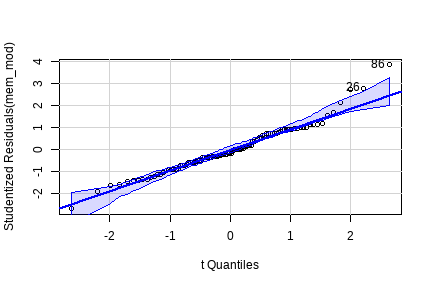
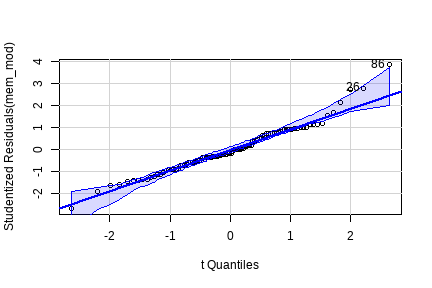
opened lecture 6

diff --git a/06_anova2.html b/06_anova2.html
@@ -81,7 +81,7 @@ class: middle, center, inverse
 Факторы:
 
 - `Age` - Возраст:
-    - `Younger` - 50 молодых;
+    - `Younger` - 50 молодых (студенты 18--30 лет);
     - `Older` - 50 пожилых (55--65 лет).
 - `Process` - тип активности:
     - `Counting` - посчитать число букв;
@@ -286,7 +286,7 @@ class: middle, center, inverse
 
 На каких рисунках есть взаимодействие факторов?
 
--- 
+--
 
 - b, c - нет взаимодействия (эффект фактора B одинаковый для групп по фактору A, линии для разных групп по фактору B на графиках расположены параллельно)
 - a, d - есть взаимодействие (эффект фактора B разный для групп по фактору A, на графиках линии для разных групп по фактору B расположены под наклоном).
@@ -472,101 +472,6 @@ contrasts = list(Age = contr.sum, Process = contr.sum))
 
 ---
 
-class: middle, center, inverse
-
-# Несбалансированные данные
-
----
-
-## Сбалансированность данных
-
-| A / B| B1 | B2 | B3 |
-|-----| -----| -----| -----|
-|A1 | `\(n_{11}\)`| `\(n_{12}\)` |  `\(n_{13}\)`|
-|A2 | `\(n_{21}\)`| `\(n_{22}\)` |  `\(n_{23}\)`|
-
-### Сбалансированные данные
-
-Одинаковое число наблюдений во всех группах `\(n_{11} = n_{12} = \cdots = n_{ij}\)`.
-
-### Несбалансированные данные
-
-Неодинаковое число наблюдений в группах.
-
----
-
-## Суммы квадратов в многофакторном дисперсионном анализе со взаимодействием
-
-__Если данные сбалансированы, то ...__
-
-- взаимодействие и эффекты факторов независимы,
-- `\(SS_t = SS_a + SS_b + SS_{ab} + SS_e\)`,  
-поэтому суммы квадратов (и тесты) можно посчитать в одном анализе,
-- результат не зависит от порядка тестирования значимости факторов.
-
---
-
-__Если данные несбалансированы, то ...__
-
-- взаимодействие и эффекты факторов уже не являются полностью независимыми,
-- `\(SS_t \ne SS_a + SS_b + SS_{ab} + SS_e\)`,  
-и суммы квадратов не посчитать за один приём,
-- результат анализа будет зависеть от порядка рассмотрения факторов (от "типа сумм квадратов").
-
-### "Тип сумм квадратов"
-
-— это один из общепринятых алгоритмов тестирования значимости факторов в дисперсионном анализе.
-
----
-
-## Порядок тестирования значимости предикторов &lt;br/&gt; в дисперсионном анализе
-
-.small[
-
-"Типы сумм квадратов" | I тип | II тип | III тип
----- | ---- | ---- | ---- 
-Название | Последовательный | Без учета взаимодействий высоких порядков | Иерархический
-Порядок расчета SS | SS(A) &lt;br/&gt; SS(B&amp;#124;A)  &lt;br/&gt; SS(AB&amp;#124;B, A) | SS(A&amp;#124;B) &lt;br/&gt; SS(B&amp;#124;A) &lt;br/&gt; SS(AB&amp;#124;B, A) | SS(A&amp;#124;B, AB) &lt;br/&gt; SS(B&amp;#124;A, AB) &lt;br/&gt; SS(AB&amp;#124;B, A)
-Величина эффекта зависит от выборки в группе | Да | Да | Нет
-Результат зависит от порядка включения факторов в модель | Да | Нет | Нет
-Параметризация | Любая | Любая | Только параметризация эффектов
-Команда R | aov(), anova() | Anova() (пакет car) |  Anova() (пакет car)
-
-__Осторожно!__ Тестируя предикторы в разном порядке, вы тестируете разные гипотезы!
-
-]
-
----
-
-## Суммы квадратов III типа
-
-__Если данные сильно не сбалансированы и анализ учитывает взаимодействие факторов__, то чтобы найти суммы квадратов придется подобрать несколько моделей.
-
-
-- `\(Y = B + AB + \mathbf{A } \longrightarrow SS_a\)`
-- `\(Y = A + AB + \mathbf{B} \longrightarrow SS_b\)`
-- `\(Y = A + B + \mathbf{AB}  \longrightarrow SS_{ab}\)`
-
-Суммы квадратов, рассчитанные __для последнего фактора в каждой модели__, будут использоваться в тестах.
-
-Некоторые авторы рекомендуют использовать именно III тип сумм квадратов для несбалансированных данных (Maxwell &amp; Delaney 1990, Milliken, Johnson 1984, Searle 1993, Yandell 1997, Glantz, Slinker 2000).
-
----
-
-## Другие проблемы из-за несбалансированности данных
-
-- Оценки средних в разных группах с разным уровнем точности (Underwood 1997)
-- ANOVA менее устойчив к отклонениям от условий применимости (особенно от гомогенности дисперсий) при разных размерах групп (Quinn Keough 2002, section 8.3)
-- Проблемы с расчетом мощности. Если `\(\sigma _{\epsilon}^2 &gt; 0\)` и размеры выборок разные, то `\(MS _{x} \over MS _{e}\)` не следует F-распределению (Searle et al. 1992).
-
---
-
-- Старайтесь _планировать_ группы равной численности!
-- Но если не получилось - не страшно:
-    - Для фикс. эффектов неравные размеры - проблема при нарушении условий применимости только, если значения доверительной вероятности _p_ близки к выбранному критическому уровню значимости `\(\alpha\)`
-
----
-
 ## Задание 3
 
 Проверим выполнение условий применимости дисперсионного анализа
@@ -679,6 +584,101 @@ qqPlot(mem_mod)
 
 ---
 
+class: middle, center, inverse
+
+# Несбалансированные данные
+
+---
+
+## Сбалансированность данных
+
+| A / B| B1 | B2 | B3 |
+|-----| -----| -----| -----|
+|A1 | `\(n_{11}\)`| `\(n_{12}\)` |  `\(n_{13}\)`|
+|A2 | `\(n_{21}\)`| `\(n_{22}\)` |  `\(n_{23}\)`|
+
+### Сбалансированные данные
+
+Одинаковое число наблюдений во всех группах `\(n_{11} = n_{12} = \cdots = n_{ij}\)`.
+
+### Несбалансированные данные
+
+Неодинаковое число наблюдений в группах.
+
+---
+
+## Суммы квадратов в многофакторном дисперсионном анализе со взаимодействием
+
+__Если данные сбалансированы, то ...__
+
+- взаимодействие и эффекты факторов независимы,
+- `\(SS_t = SS_a + SS_b + SS_{ab} + SS_e\)`,  
+поэтому суммы квадратов (и тесты) можно посчитать в одном анализе,
+- результат не зависит от порядка тестирования значимости факторов.
+
+--
+
+__Если данные несбалансированы, то ...__
+
+- взаимодействие и эффекты факторов уже не являются полностью независимыми,
+- `\(SS_t \ne SS_a + SS_b + SS_{ab} + SS_e\)`,  
+и суммы квадратов не посчитать за один приём,
+- результат анализа будет зависеть от порядка рассмотрения факторов (от "типа сумм квадратов").
+
+### "Тип сумм квадратов"
+
+— это один из общепринятых алгоритмов тестирования значимости факторов в дисперсионном анализе.
+
+---
+
+## Порядок тестирования значимости предикторов &lt;br/&gt; в дисперсионном анализе
+
+.small[
+
+"Типы сумм квадратов" | I тип | II тип | III тип
+---- | ---- | ---- | ---- 
+Название | Последовательный | Без учета взаимодействий высоких порядков | Иерархический
+Порядок расчета SS | SS(A) &lt;br/&gt; SS(B&amp;#124;A)  &lt;br/&gt; SS(AB&amp;#124;B, A) | SS(A&amp;#124;B) &lt;br/&gt; SS(B&amp;#124;A) &lt;br/&gt; SS(AB&amp;#124;B, A) | SS(A&amp;#124;B, AB) &lt;br/&gt; SS(B&amp;#124;A, AB) &lt;br/&gt; SS(AB&amp;#124;B, A)
+Величина эффекта зависит от выборки в группе | Да | Да | Нет
+Результат зависит от порядка включения факторов в модель | Да | Нет | Нет
+Параметризация | Любая | Любая | Только параметризация эффектов
+Команда R | aov(), anova() | Anova() (пакет car) |  Anova() (пакет car)
+
+__Осторожно!__ Тестируя предикторы в разном порядке, вы тестируете разные гипотезы!
+
+]
+
+---
+
+## Суммы квадратов III типа
+
+__Если данные сильно не сбалансированы и анализ учитывает взаимодействие факторов__, то чтобы найти суммы квадратов придется подобрать несколько моделей.
+
+
+- `\(Y = B + AB + \mathbf{A } \longrightarrow SS_a\)`
+- `\(Y = A + AB + \mathbf{B} \longrightarrow SS_b\)`
+- `\(Y = A + B + \mathbf{AB}  \longrightarrow SS_{ab}\)`
+
+Суммы квадратов, рассчитанные __для последнего фактора в каждой модели__, будут использоваться в тестах.
+
+Некоторые авторы рекомендуют использовать именно III тип сумм квадратов для несбалансированных данных (Maxwell &amp; Delaney 1990, Milliken, Johnson 1984, Searle 1993, Yandell 1997, Glantz, Slinker 2000).
+
+---
+
+## Другие проблемы из-за несбалансированности данных
+
+- Оценки средних в разных группах с разным уровнем точности (Underwood 1997)
+- ANOVA менее устойчив к отклонениям от условий применимости (особенно от гомогенности дисперсий) при разных размерах групп (Quinn Keough 2002, section 8.3)
+- Проблемы с расчетом мощности. Если `\(\sigma _{\epsilon}^2 &gt; 0\)` и размеры выборок разные, то `\(MS _{x} \over MS _{e}\)` не следует F-распределению (Searle et al. 1992).
+
+--
+
+- Старайтесь _планировать_ группы равной численности!
+- Но если не получилось - не страшно:
+    - Для фикс. эффектов неравные размеры - проблема при нарушении условий применимости только, если значения доверительной вероятности _p_ близки к выбранному критическому уровню значимости `\(\alpha\)`
+
+---
+
 ## Результаты дисперсионного анализа
 
 
@@ -775,51 +775,51 @@ Fit: lm(formula = Words ~ AgeProcess - 1, data = memory)
 
 Linear Hypotheses:
                                                      Estimate Std. Error t value Pr(&gt;|t|)
-Молодой.Число букв - Пожилой.Число букв == 0            -0.50       1.27   -0.39    1.000
-Пожилой.Рифмы - Пожилой.Число букв == 0                 -0.10       1.27   -0.08    1.000
-Молодой.Рифмы - Пожилой.Число букв == 0                  0.60       1.27    0.47    1.000
-Пожилой.Прилагательное - Пожилой.Число букв == 0         4.00       1.27    3.16    0.063
-Молодой.Прилагательное - Пожилой.Число букв == 0         7.80       1.27    6.16    &lt;0.01
-Пожилой.Образ - Пожилой.Число букв == 0                  6.40       1.27    5.05    &lt;0.01
-Молодой.Образ - Пожилой.Число букв == 0                 10.60       1.27    8.37    &lt;0.01
-Пожилой.Запоминание - Пожилой.Число букв == 0            5.00       1.27    3.95    &lt;0.01
-Молодой.Запоминание - Пожилой.Число букв == 0           12.30       1.27    9.71    &lt;0.01
-Пожилой.Рифмы - Молодой.Число букв == 0                  0.40       1.27    0.32    1.000
-Молодой.Рифмы - Молодой.Число букв == 0                  1.10       1.27    0.87    0.997
-Пожилой.Прилагательное - Молодой.Число букв == 0         4.50       1.27    3.55    0.021
-Молодой.Прилагательное - Молодой.Число букв == 0         8.30       1.27    6.55    &lt;0.01
-Пожилой.Образ - Молодой.Число букв == 0                  6.90       1.27    5.45    &lt;0.01
-Молодой.Образ - Молодой.Число букв == 0                 11.10       1.27    8.76    &lt;0.01
-Пожилой.Запоминание - Молодой.Число букв == 0            5.50       1.27    4.34    &lt;0.01
-Молодой.Запоминание - Молодой.Число букв == 0           12.80       1.27   10.10    &lt;0.01
-Молодой.Рифмы - Пожилой.Рифмы == 0                       0.70       1.27    0.55    1.000
-Пожилой.Прилагательное - Пожилой.Рифмы == 0              4.10       1.27    3.24    0.051
-Молодой.Прилагательное - Пожилой.Рифмы == 0              7.90       1.27    6.24    &lt;0.01
-Пожилой.Образ - Пожилой.Рифмы == 0                       6.50       1.27    5.13    &lt;0.01
-Молодой.Образ - Пожилой.Рифмы == 0                      10.70       1.27    8.45    &lt;0.01
-Пожилой.Запоминание - Пожилой.Рифмы == 0                 5.10       1.27    4.03    &lt;0.01
-Молодой.Запоминание - Пожилой.Рифмы == 0                12.40       1.27    9.79    &lt;0.01
-Пожилой.Прилагательное - Молодой.Рифмы == 0              3.40       1.27    2.68    0.197
-Молодой.Прилагательное - Молодой.Рифмы == 0              7.20       1.27    5.68    &lt;0.01
-Пожилой.Образ - Молодой.Рифмы == 0                       5.80       1.27    4.58    &lt;0.01
-Молодой.Образ - Молодой.Рифмы == 0                      10.00       1.27    7.89    &lt;0.01
-Пожилой.Запоминание - Молодой.Рифмы == 0                 4.40       1.27    3.47    0.026
-Молодой.Запоминание - Молодой.Рифмы == 0                11.70       1.27    9.23    &lt;0.01
-Молодой.Прилагательное - Пожилой.Прилагательное == 0     3.80       1.27    3.00    0.095
-Пожилой.Образ - Пожилой.Прилагательное == 0              2.40       1.27    1.89    0.673
-Молодой.Образ - Пожилой.Прилагательное == 0              6.60       1.27    5.21    &lt;0.01
-Пожилой.Запоминание - Пожилой.Прилагательное == 0        1.00       1.27    0.79    0.999
-Молодой.Запоминание - Пожилой.Прилагательное == 0        8.30       1.27    6.55    &lt;0.01
-Пожилой.Образ - Молодой.Прилагательное == 0             -1.40       1.27   -1.11    0.983
-Молодой.Образ - Молодой.Прилагательное == 0              2.80       1.27    2.21    0.457
-Пожилой.Запоминание - Молодой.Прилагательное == 0       -2.80       1.27   -2.21    0.458
-Молодой.Запоминание - Молодой.Прилагательное == 0        4.50       1.27    3.55    0.020
-Молодой.Образ - Пожилой.Образ == 0                       4.20       1.27    3.32    0.041
-Пожилой.Запоминание - Пожилой.Образ == 0                -1.40       1.27   -1.11    0.983
-Молодой.Запоминание - Пожилой.Образ == 0                 5.90       1.27    4.66    &lt;0.01
-Пожилой.Запоминание - Молодой.Образ == 0                -5.60       1.27   -4.42    &lt;0.01
-Молодой.Запоминание - Молодой.Образ == 0                 1.70       1.27    1.34    0.941
-Молодой.Запоминание - Пожилой.Запоминание == 0           7.30       1.27    5.76    &lt;0.01
+Молодой.Число букв - Пожилой.Число букв == 0            -0.50       1.27   -0.39   1.0000
+Пожилой.Рифмы - Пожилой.Число букв == 0                 -0.10       1.27   -0.08   1.0000
+Молодой.Рифмы - Пожилой.Число букв == 0                  0.60       1.27    0.47   1.0000
+Пожилой.Прилагательное - Пожилой.Число букв == 0         4.00       1.27    3.16   0.0633
+Молодой.Прилагательное - Пожилой.Число букв == 0         7.80       1.27    6.16   &lt;0.001
+Пожилой.Образ - Пожилой.Число букв == 0                  6.40       1.27    5.05   &lt;0.001
+Молодой.Образ - Пожилой.Число букв == 0                 10.60       1.27    8.37   &lt;0.001
+Пожилой.Запоминание - Пожилой.Число букв == 0            5.00       1.27    3.95   0.0058
+Молодой.Запоминание - Пожилой.Число букв == 0           12.30       1.27    9.71   &lt;0.001
+Пожилой.Рифмы - Молодой.Число букв == 0                  0.40       1.27    0.32   1.0000
+Молодой.Рифмы - Молодой.Число букв == 0                  1.10       1.27    0.87   0.9970
+Пожилой.Прилагательное - Молодой.Число букв == 0         4.50       1.27    3.55   0.0206
+Молодой.Прилагательное - Молодой.Число букв == 0         8.30       1.27    6.55   &lt;0.001
+Пожилой.Образ - Молодой.Число букв == 0                  6.90       1.27    5.45   &lt;0.001
+Молодой.Образ - Молодой.Число букв == 0                 11.10       1.27    8.76   &lt;0.001
+Пожилой.Запоминание - Молодой.Число букв == 0            5.50       1.27    4.34   0.0014
+Молодой.Запоминание - Молодой.Число букв == 0           12.80       1.27   10.10   &lt;0.001
+Молодой.Рифмы - Пожилой.Рифмы == 0                       0.70       1.27    0.55   0.9999
+Пожилой.Прилагательное - Пожилой.Рифмы == 0              4.10       1.27    3.24   0.0509
+Молодой.Прилагательное - Пожилой.Рифмы == 0              7.90       1.27    6.24   &lt;0.001
+Пожилой.Образ - Пожилой.Рифмы == 0                       6.50       1.27    5.13   &lt;0.001
+Молодой.Образ - Пожилой.Рифмы == 0                      10.70       1.27    8.45   &lt;0.001
+Пожилой.Запоминание - Пожилой.Рифмы == 0                 5.10       1.27    4.03   0.0046
+Молодой.Запоминание - Пожилой.Рифмы == 0                12.40       1.27    9.79   &lt;0.001
+Пожилой.Прилагательное - Молодой.Рифмы == 0              3.40       1.27    2.68   0.1958
+Молодой.Прилагательное - Молодой.Рифмы == 0              7.20       1.27    5.68   &lt;0.001
+Пожилой.Образ - Молодой.Рифмы == 0                       5.80       1.27    4.58   &lt;0.001
+Молодой.Образ - Молодой.Рифмы == 0                      10.00       1.27    7.89   &lt;0.001
+Пожилой.Запоминание - Молодой.Рифмы == 0                 4.40       1.27    3.47   0.0257
+Молодой.Запоминание - Молодой.Рифмы == 0                11.70       1.27    9.23   &lt;0.001
+Молодой.Прилагательное - Пожилой.Прилагательное == 0     3.80       1.27    3.00   0.0950
+Пожилой.Образ - Пожилой.Прилагательное == 0              2.40       1.27    1.89   0.6727
+Молодой.Образ - Пожилой.Прилагательное == 0              6.60       1.27    5.21   &lt;0.001
+Пожилой.Запоминание - Пожилой.Прилагательное == 0        1.00       1.27    0.79   0.9986
+Молодой.Запоминание - Пожилой.Прилагательное == 0        8.30       1.27    6.55   &lt;0.001
+Пожилой.Образ - Молодой.Прилагательное == 0             -1.40       1.27   -1.11   0.9830
+Молодой.Образ - Молодой.Прилагательное == 0              2.80       1.27    2.21   0.4573
+Пожилой.Запоминание - Молодой.Прилагательное == 0       -2.80       1.27   -2.21   0.4574
+Молодой.Запоминание - Молодой.Прилагательное == 0        4.50       1.27    3.55   0.0207
+Молодой.Образ - Пожилой.Образ == 0                       4.20       1.27    3.32   0.0414
+Пожилой.Запоминание - Пожилой.Образ == 0                -1.40       1.27   -1.11   0.9830
+Молодой.Запоминание - Пожилой.Образ == 0                 5.90       1.27    4.66   &lt;0.001
+Пожилой.Запоминание - Молодой.Образ == 0                -5.60       1.27   -4.42   0.0011
+Молодой.Запоминание - Молодой.Образ == 0                 1.70       1.27    1.34   0.9409
+Молодой.Запоминание - Пожилой.Запоминание == 0           7.30       1.27    5.76   &lt;0.001
                                                         
 Молодой.Число букв - Пожилой.Число букв == 0            
 Пожилой.Рифмы - Пожилой.Число букв == 0                 

diff --git a/lectures.html b/lectures.html
@@ -512,8 +512,8 @@ href="data/sleep.csv">sleep.csv</a>
 </div>
 <div id="дисперсионный-анализ-ч.2" class="section level2">
 <h2>6. Дисперсионный анализ, ч.2</h2>
-<!-- - Презентация: [06_anova2.html](06_anova2.html) -->
 <ul>
+<li>Презентация: <a href="06_anova2.html">06_anova2.html</a></li>
 <li>Код: <a href="06_anova2_code.R">06_anova2_code.R</a></li>
 <li>Данные: <a href="data/eysenck.csv">eysenck.csv</a></li>
 </ul>
